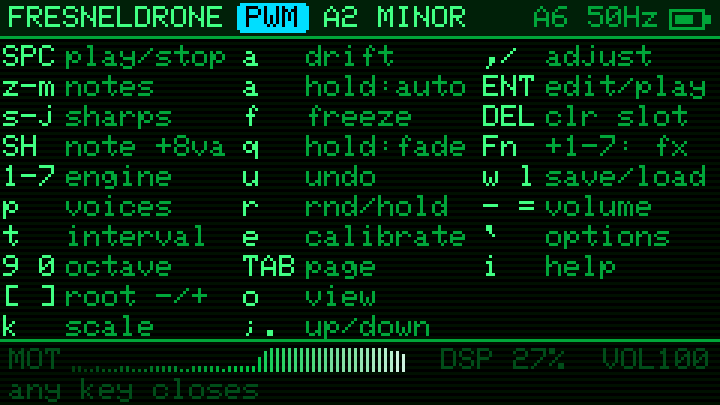
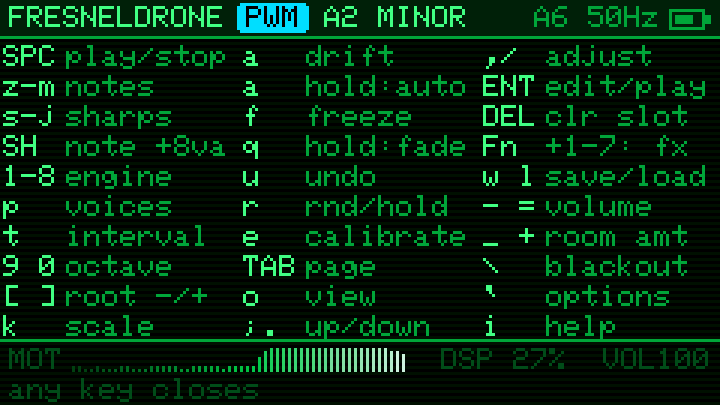
FOLD engine on 7 (NOISE to 8), room amount on _ +, blackout on \
FOLD: sines (root, interval, sub) through a triangle wavefolder with
first-order ADAA. SPREAD is the fold depth (a clean sine at 0), TIMBRE
an offset into the folder that skews the folds into even harmonics; a
DC blocker takes out what the offset leaves. Presets move to format 3:
a v2 preset with engine 6 (NOISE then) still loads as NOISE.

Room amount (_ / +, 0-200% in 10% steps, not saved, like volume) scales
every room-driven matrix slot but not the LFO; the footer shows ROOM %
in place of DSP % while it isn't 100%.

Blackout (\) turns the backlight off and stops drawing; the drone plays
on, and the next key only wakes the screen.

diff --git a/src/dsp.h b/src/dsp.h
@@ -27,8 +27,8 @@ static const ModProfile MOD_PROFILES[] = {{"SHARP", 0.15f, 0.15f}, {"NORMAL", 0.
 constexpr int NPROFILE = sizeof MOD_PROFILES / sizeof *MOD_PROFILES;
 constexpr float PARAM_TAU = 0.15f, FADE_TAU = 1.2f;  // FADE: held q's fade out / swell back
 
-enum Engine { E_PWM, E_SAW, E_FM, E_ORGAN, E_WAVE, E_VOICE, E_NOISE, NENGINE };
-static const char* const ENGINE_NAME[NENGINE] = {"PWM", "SAW", "FM", "ORG", "WAVE", "VOICE", "NOISE"};
+enum Engine { E_PWM, E_SAW, E_FM, E_ORGAN, E_WAVE, E_VOICE, E_FOLD, E_NOISE, NENGINE };
+static const char* const ENGINE_NAME[NENGINE] = {"PWM", "SAW", "FM", "ORG", "WAVE", "VOICE", "FOLD", "NOISE"};
 enum NoiseKind { N_DUST, N_WIND, N_SURF, N_STATIC, N_METAL, NNOISE };  // TIMBRE morphs through these
 enum Lfo { L_SINE, L_TRI, L_SAW, L_SQR, L_SH, L_DRIFT, NLFO };
 static const char* const LFO_NAME[NLFO] = {"SINE", "TRIANGLE", "SAW DOWN", "SQUARE", "S&H", "DRIFT"};
@@ -86,7 +86,7 @@ static inline int quantize(float s, uint16_t mask) {
 
 // ── patch JSON (hand-rolled: the format is ours and flat) ────────────────────
 static int patchToJson(const Patch& p, char* out, int cap) {  // cap >= 512
-  int n = snprintf(out, cap, "{\"v\":2,\"engine\":%d,\"root\":%d,\"octave\":%d,\"scale\":%d,\"fx\":%d,\"lfo\":%d,\"voices\":%d,\"interval\":%d,\n\"params\":[",
+  int n = snprintf(out, cap, "{\"v\":3,\"engine\":%d,\"root\":%d,\"octave\":%d,\"scale\":%d,\"fx\":%d,\"lfo\":%d,\"voices\":%d,\"interval\":%d,\n\"params\":[",
                    p.engine, p.root, p.octave, p.scale, p.fx, p.lfo, p.voices, p.interval);
   for (int i = 0; i < NPARAM; i++) n += snprintf(out + n, cap - n, "%s%.3f", i ? "," : "", p.p[i]);
   n += snprintf(out + n, cap - n, "],\n\"matrix\":[");
@@ -125,10 +125,11 @@ static bool patchFromJson(const char* js, Patch& out) {
   jsonNums(js, "\"lfo\"", &lfo, 1);  // optional: older presets lack these two
   jsonNums(js, "\"voices\"", &voices, 1);
   jsonNums(js, "\"interval\"", &interval, 1);
-  float ver = 1;  // format 2 gave shimmer its own FX bit; before, it came with the reverb
+  float ver = 1;  // format 2 gave shimmer its own FX bit (before, it came with the reverb); 3 put FOLD before NOISE
   jsonNums(js, "\"v\"", &ver, 1);
   Patch p;
   p.engine = clampInt(h[0], 0, NENGINE - 1);
+  if (ver < 3 && p.engine == E_FOLD) p.engine = E_NOISE;
   p.root = clampInt(h[1], 0, 11);
   p.octave = clampInt(h[2], 0, 5);
   p.scale = clampInt(h[3], 0, NSCALE - 1);
@@ -158,6 +159,13 @@ static DSP_AI float sinT(float ph) {  // ph in cycles, any range
   return SINT[i] + (SINT[i + 1] - SINT[i]) * fr;
 }
 static DSP_AI float clampf(float x, float lo, float hi) { return x < lo ? lo : x > hi ? hi : x; }
+// Triangle wavefolder: -1..1 passes, beyond that it reflects back (period 4); foldF is its
+// antiderivative, for first-order antialiasing (ADAA). |u| < 250 (the +64 keeps the cast a floor).
+static DSP_AI float foldT(float u) { float w = (u + 1) * 0.25f + 64, t = (w - (int)w) * 4; return t < 2 ? t - 1 : 3 - t; }
+static DSP_AI float foldF(float u) {
+  float w = (u + 1) * 0.25f + 64, t = (w - (int)w) * 4;
+  return t < 2 ? t * t * 0.5f - t : t * (3 - t * 0.5f) - 4;
+}
 static DSP_AI float sat(float x) {  // cubic soft clip, |out| <= 1
   x = clampf(x, -1.5f, 1.5f);
   return x - x * x * x * (4.f / 27);
@@ -196,6 +204,7 @@ struct Synth {
   uint8_t profile = 2;  // MOD_PROFILES index, SMOOTH
   bool freeze = false;  // hold the room's mods (and ORG's partials) where they are; the LFO keeps going
   bool duck = false;    // fade the output down (slowly); false swells it back
+  float room = 1;       // room amount, 0..2: scales the room's sources in the matrix (not the LFO)
 
   Synth() {
     for (int i = 0; i <= 1024; i++) SINT[i] = sinf(2 * PI_F * i / 1024);
@@ -234,6 +243,7 @@ struct Synth {
   float surfPh = 0, surfRate = 0.1f, sz1 = 0, sz2 = 0, shV = 0, gate = 0.5f, gateT = 0.5f, metPh[3] = {};
   int shCnt = 0, shHold = 1;
   uint16_t lfsr[3] = {1, 1, 1};
+  float foldU[3] = {}, foldDc = 0;  // FOLD: each voice's last folder input, DC blocker
   float drvLp = 0, drvDc = 0;  // analog drive: circuit bandwidth, DC blocker
   Slot route[NSLOT];    // the routings as currently applied: glide toward pt.mod
   float routeD[NSLOT];  // their depths, gliding
@@ -322,7 +332,7 @@ DSP_IRAM void Synth::block(int16_t* out, int n, float* src, const float* prof) {
     bool moved = s.src != r.src || s.dst != r.dst;
     routeD[k] += ((moved ? 0 : s.depth) - routeD[k]) * pg;
     if (moved && fabsf(routeD[k]) < 0.5f) r.src = s.src, r.dst = s.dst;
-    if (r.src < NSRC && r.dst < NPARAM) eff[r.dst] += modS[r.src] * routeD[k] * 0.01f;
+    if (r.src < NSRC && r.dst < NPARAM) eff[r.dst] += modS[r.src] * routeD[k] * (r.src == S_LFO ? 0.01f : 0.01f * room);
   }
   for (float& e : eff) e = clamp01(e);
 
@@ -362,7 +372,7 @@ DSP_IRAM void Synth::block(int16_t* out, int n, float* src, const float* prof) {
   float tb = eff[P_TIMBRE], sp = eff[P_SPREAD];
 
   float inc[16], idt[16], amp[16], pw[6], idx[3], minc[3], fa1[3], fa2[3], fa3[3], fk[3];
-  float norm = 1, wfr = 0, nzF = 0, dustP = 0, surfA = 0, surfG = 0;
+  float norm = 1, wfr = 0, nzF = 0, dustP = 0, surfA = 0, surfG = 0, foldG = 1, foldO = 0;
   int nzA = 0, shMax = 2;
   const int16_t *wA = WT[0], *wB = WT[1];
   // Voices stack root, fifth (fv[1]) and sub (fv[2]); fewer voices get a lift so
@@ -433,6 +443,11 @@ DSP_IRAM void Synth::block(int16_t* out, int n, float* src, const float* prof) {
       }
       break;
     }
+    case E_FOLD:  // sines into a wavefolder: SPREAD folds them (harmonics bloom), TIMBRE skews the folds
+      for (int v = 0; v < 3; v++) inc[v] = fv[v] / SR;
+      foldG = 0.9f + sp * 6;  // below 1: a clean sine
+      foldO = tb * 1.2f;      // offset into the folder: uneven folds, even harmonics
+      break;
     case E_NOISE: {  // five kinds of noise, unpitched but for METAL: TIMBRE morphs between neighbours
       float pos = tb * (NNOISE - 1) * 0.9999f;
       nzA = (int)pos, nzF = pos - nzA;
@@ -560,6 +575,17 @@ DSP_IRAM void Synth::block(int16_t* out, int n, float* src, const float* prof) {
         }
         break;
       }
+      case E_FOLD:
+        for (int v = 0; v < tones; v++) {  // root, interval, sub
+          ph[v] = wrap1(ph[v] + inc[v]);
+          float u = foldG * sinT(ph[v]) + foldO, du = u - foldU[v];
+          // ADAA: the folder averaged over the step, not sampled; its corners alias far less
+          x += (v == 1 ? 0.3f : 0.45f) * (fabsf(du) > 1e-3f ? (foldF(u) - foldF(foldU[v])) / du : foldT(u - du * 0.5f));
+          foldU[v] = u;
+        }
+        foldDc += (x - foldDc) * 0.0015f;  // the offset leaves DC behind: block it (~10 Hz)
+        x = (x - foldDc) * 0.75f * vg;
+        break;
       case E_NOISE: {
         float y[2] = {0, 0};
         for (int s = 0; s < (nzF > 0.001f ? 2 : 1); s++) {

diff --git a/src/main.cpp b/src/main.cpp
@@ -1,6 +1,6 @@
 // FRESNELDRONE: a drone synth for the M5Stack Cardputer ADV, played by the room.
 // WiFi Channel State Information (bodies moving bend the multipath) drives
-// seven drone engines and an FX chain through a mod matrix.
+// eight drone engines and an FX chain through a mod matrix.
 #ifndef FRESNELDRONE_HOST  // test/screens.cpp supplies stand-ins to render the UI on a laptop
 #include <M5Cardputer.h>
 #include <Preferences.h>
@@ -41,7 +41,7 @@ constexpr int NTHEME = sizeof THEMES / sizeof *THEMES;
 static uint8_t theme = 0;  // saved in NVS
 // Header tag per engine, the same in every theme (no amber: that means "warning").
 static const uint16_t ENGINE_COLOR[] = {rgb(0, 220, 255),  rgb(255, 120, 30), rgb(180, 110, 255), rgb(120, 255, 60),
-                                        rgb(255, 70, 170), rgb(255, 225, 40), rgb(60, 140, 255)};
+                                        rgb(255, 70, 170), rgb(255, 225, 40), rgb(255, 90, 80),  rgb(60, 140, 255)};
 static_assert(sizeof ENGINE_COLOR / sizeof *ENGINE_COLOR == NENGINE, "one colour per engine");
 
 static void applyTheme() {
@@ -67,6 +67,9 @@ static const char* const HINTS[NPAGE] = {"TAB page  o view  z-m notes  i help", 
 // unity gain, so a full-scale drone hard-clips in its mixer above that.
 constexpr int VOL_MAX = 180;
 static int page = PG_WATERFALL, overlay = OV_NONE, pCur = 0, mRow = 0, mCol = 0, optCur = 0, vol = 180;
+static int roomPct = 100;  // room amount (_ +): how strongly the room moves the sound, like vol not saved
+static bool blackout = false;  // backslash: backlight off, the drone plays on; any key wakes it
+static uint8_t bright = 0;     // the backlight before it
 static const char* const WF_VIEW[] = {"XY", "RADIAL", "3D"};  // how the waterfall draws its history: o cycles
 constexpr int NWFVIEW = sizeof WF_VIEW / sizeof *WF_VIEW;
 static uint8_t wfView = 0;  // saved in NVS
@@ -600,12 +603,12 @@ static void drawMatrix() {
 
 static void drawHelp() {
   static const char* const K[][2] = {  // three columns of ten: keys <= 3 chars, notes <= 9
-      {"SPC", "play/stop"}, {"z-m", "notes"},     {"s-j", "sharps"},    {"SH", "note +8va"}, {"1-7", "engine"},
+      {"SPC", "play/stop"}, {"z-m", "notes"},     {"s-j", "sharps"},    {"SH", "note +8va"}, {"1-8", "engine"},
       {"p", "voices"},      {"t", "interval"},    {"9 0", "octave"},    {"[ ]", "root -/+"}, {"k", "scale"},
       {"a", "drift"},       {"a", "hold:auto"},   {"f", "freeze"},      {"q", "hold:fade"},  {"u", "undo"},
       {"r", "rnd/hold"},    {"e", "calibrate"},   {"TAB", "page"},      {"o", "view"},        {";.", "up/down"},   {",/", "adjust"},
       {"ENT", "edit/play"}, {"DEL", "clr slot"},  {"Fn", "+1-7: fx"},   {"w l", "save/load"}, {"- =", "volume"},
-      {"`", "options"},     {"i", "help"}};
+      {"_ +", "room amt"},  {"\\", "blackout"},  {"`", "options"},     {"i", "help"}};
   for (int i = 0; i < (int)(sizeof K / sizeof *K); i++) {
     int x = 1 + (i / 10) * 80, y = 15 + (i % 10) * 10;
     cv.setTextColor(C_HI);
@@ -680,10 +683,12 @@ static void drawFooter() {
     int h = 1 + (int)(motHist[(histHead + i) % HIST] * 8);
     cv.drawFastVLine(24 + i * 2, 124 - h, h, ramp[6 + i * 25 / HIST]);
   }
-  char s[24];
+  char s[24], lead[12];
+  if (roomPct != 100) snprintf(lead, sizeof lead, "ROOM%3d%%", roomPct);  // in place of the DSP load
+  else snprintf(lead, sizeof lead, "DSP%3d%%", (int)(dspLoad * 100));
   if (!playing) snprintf(s, sizeof s, "STOPPED");
-  else if (audioOn) snprintf(s, sizeof s, "DSP%3d%%  VOL%3d", (int)(dspLoad * 100), vol * 100 / VOL_MAX);
-  else snprintf(s, sizeof s, "DSP%3d%%  MUTED", (int)(dspLoad * 100));
+  else if (audioOn) snprintf(s, sizeof s, "%s  VOL%3d", lead, vol * 100 / VOL_MAX);
+  else snprintf(s, sizeof s, "%s  MUTED", lead);
   cv.setTextColor(playing ? C_DIM : C_WARN);
   cv.drawRightString(s, W - 3, 116);
   char hold[40] = "";  // r or a held: count down to the hold action
@@ -1192,7 +1197,7 @@ static void onKey(char c) {
       say(WF_VIEW[wfView]);
       break;
     case '`': overlay = OV_OPTIONS; break;
-    case '1': case '2': case '3': case '4': case '5': case '6': case '7':
+    case '1': case '2': case '3': case '4': case '5': case '6': case '7': case '8':
       remember();
       P.engine = c - '1';
       break;
@@ -1261,6 +1266,19 @@ static void onKey(char c) {
       vol = constrain(vol + (c == '=' ? 12 : -12), 0, VOL_MAX);
       applyVolume();
       break;
+    case '_': case '+': {
+      roomPct = constrain(roomPct + (c == '+' ? 10 : -10), 0, 200);
+      syn.room = roomPct / 100.f;
+      char s[16];
+      snprintf(s, sizeof s, "ROOM %d%%", roomPct);
+      say(s);
+      break;
+    }
+    case '\\':
+      bright = M5Cardputer.Display.getBrightness();
+      M5Cardputer.Display.setBrightness(0);
+      blackout = true;
+      break;
     case ';': adjust(-1, 0); break;
     case '.': adjust(1, 0); break;
     case ',': adjust(0, -1); break;
@@ -1276,6 +1294,10 @@ static void serviceKeys() {
   uint32_t now = millis();
   if (kb.isChange()) {
     held = kb.isPressed() ? readKey() : 0;
+    if (blackout && held) {  // this key only wakes the screen
+      blackout = false, held = 0;
+      M5Cardputer.Display.setBrightness(bright);
+    }
     if (holdAt && !held) holdKey == 'r' ? randomize() : toggleDrift();  // let go before the hold fired
     syn.duck = held == 'q' || autoSwapAt;  // q: fade out while held, swell back on release
     repeatAt = now + 350;
@@ -1284,7 +1306,7 @@ static void serviceKeys() {
   } else if (holdAt && now - holdAt >= HOLD_MS) {
     holdAt = 0;
     holdKey == 'r' ? randomizeMods() : setAuto(true);
-  } else if (held && strchr(";.,/-=", held) && now >= repeatAt) {  // auto-repeat nav + volume
+  } else if (held && strchr(";.,/-=_+", held) && now >= repeatAt) {  // auto-repeat nav, volume, room
     repeatAt = now + 45;
     onKey(held);
   }
@@ -1387,7 +1409,7 @@ void loop() {
   bool cal = csi.calLeft > 0;
   if (wasCal && !cal && csi.calibrated) say("BASELINE SET");
   wasCal = cal;
-  if (now - tDraw >= 33) {
+  if (now - tDraw >= 33 && !blackout) {
     tDraw = now;
     draw();
   }

diff --git a/test/host_test.cpp b/test/host_test.cpp
@@ -67,6 +67,12 @@ int main(int argc, char** argv) {
   assert(patchFromJson("{\"engine\":1,\"root\":0,\"octave\":2,\"scale\":0,\"fx\":0,\"params\":[0,0,0,0,0,0,0,0,0,0,0,0,0,0,0,0],"
                        "\"matrix\":[[0,0,0],[0,0,0],[0,0,0],[0,0,0],[0,0,0],[0,0,0],[0,0,0],[0,0,0]]}", q) && q.voices == 3);  // pre-voices preset
   assert(!patchFromJson("{\"engine\":1}", q));
+  assert(patchFromJson("{\"v\":2,\"engine\":6,\"root\":0,\"octave\":2,\"scale\":0,\"fx\":0,\"params\":[0,0,0,0,0,0,0,0,0,0,0,0,0,0,0,0],"
+                       "\"matrix\":[[0,0,0],[0,0,0],[0,0,0],[0,0,0],[0,0,0],[0,0,0],[0,0,0],[0,0,0]]}", q) &&
+         q.engine == E_NOISE);  // NOISE was 6 before FOLD took that place
+  p.engine = E_FOLD;
+  patchToJson(p, js, sizeof js);
+  assert(patchFromJson(js, q) && q.engine == E_FOLD);
   const char* evil =
       "{\"engine\":99,\"root\":-5,\"octave\":7,\"scale\":-nan,\"fx\":999,\"params\":[9,9,9,9,9,9,9,9,9,9,9,9,9,9,9,-x9],"
       "\"matrix\":[[99,99,500],[0,0,-500],[1,1,1],[1,1,1],[1,1,1],[1,1,1],[1,1,1],[1,1,1]]}";
@@ -224,6 +230,35 @@ int main(int argc, char** argv) {
     double h2 = 20 * log10(mag(220) / mag(110));
     printf("drive 0.8: 2nd harmonic %.1f dB\n", h2);
     assert(h2 > -30);
+  }
+
+  // FOLD: a sine at SPREAD 0; SPREAD folds in odd harmonics, TIMBRE skews the folds into even ones.
+  {
+    for (float u = -9; u < 9; u += 0.37f)  // ADAA needs foldF to be foldT's antiderivative
+      assert(fabsf((foldF(u + 0.01f) - foldF(u - 0.01f)) / 0.02f - foldT(u)) < 0.02f);
+    float src0[NSRC] = {}, flat[NSC];
+    for (float& f : flat) f = 0.5f;
+    auto tone = [&](float spread, float timbre, double& odd, double& even) {  // harmonics 2-16 vs the fundamental, dB
+      syn.pt = DEFAULT_PATCH;
+      syn.pt.engine = E_FOLD, syn.pt.voices = 1, syn.pt.fx = 0;
+      syn.pt.p[P_SPREAD] = spread, syn.pt.p[P_TIMBRE] = timbre, syn.pt.p[P_CUTOFF] = 1, syn.pt.p[P_NOISE] = 0;
+      for (auto& s : syn.pt.mod) s.depth = 0;
+      for (int i = 0; i + 512 <= SR * 4; i += 512) syn.render(pcm + i, 512, src0, flat);
+      auto mag = [&](double hz) {
+        double re = 0, im = 0;
+        for (int i = 0; i < SR; i++) re += pcm[SR * 3 + i] * cos(2 * M_PI * hz * i / SR), im += pcm[SR * 3 + i] * sin(2 * M_PI * hz * i / SR);
+        return re * re + im * im;
+      };
+      double e[2] = {1e-12, 1e-12}, f = mag(syn.freq);
+      for (int h = 2; h <= 16; h++) e[h % 2] += mag(syn.freq * h);
+      even = 10 * log10(e[0] / f), odd = 10 * log10(e[1] / f);
+    };
+    double o0, e0, o1, e1, o2, e2;
+    tone(0, 0, o0, e0), tone(1, 0, o1, e1), tone(1, 1, o2, e2);
+    printf("fold: clean odd %.0f even %.0f dB  folded odd %.0f even %.0f  skewed odd %.0f even %.0f\n", o0, e0, o1, e1, o2, e2);
+    assert(o0 < -40 && e0 < -40);  // a sine
+    assert(o1 > -10 && e1 < -30);  // folded: odd harmonics (even ones measure ~-38 dB)
+    assert(e2 > -20);              // skewed: even ones too
   }
 
   // REVERB and SHIMMER maxed on a held drone: the shimmer loop must bloom, not run away and pin.

diff --git a/test/screens.cpp b/test/screens.cpp
@@ -137,7 +137,7 @@ struct M5Canvas {
 struct M5Cfg { int serial_baudrate; };
 struct KeysState { bool tab, enter, del, fn; std::vector<char> word; };
 static struct {
-  struct { void setRotation(int) {} } Display;
+  struct { void setRotation(int) {} uint8_t getBrightness() { return 128; } void setBrightness(uint8_t) {} } Display;
   struct Spk {
     struct Cfg { int sample_rate, dma_buf_count, dma_buf_len, task_pinned_core; };
     Cfg config() { return {}; }

diff --git a/manual.md b/manual.md
@@ -28,6 +28,7 @@ Plug in headphones and the speaker switches off by itself.
 
 - a small `MOT` graph of recent motion
 - `DSP %`: how hard the synth is working (keep it under ~80%)
+- `ROOM %` in its place while the room amount (`_` `+`) isn't 100%
 - the volume, or `MUTED`, or `STOPPED`
 - hints for the current page, and short messages such as `RANDOMIZED` or `BASELINE SET`
 
@@ -115,7 +116,7 @@ Press `e` (or Options → CALIBRATE). A big **LEAVE THE ROOM** countdown gives y
 
 ## Sound engines
 
-Press `1`–`7`. The sound fades over when you switch.
+Press `1`–`8`. The sound fades over when you switch.
 
 | Key | Engine | Sound | TIMBRE | SPREAD |
 |---|---|---|---|---|
@@ -125,7 +126,8 @@ Press `1`–`7`. The sound fades over when you switch.
 | `4` | **ORG** | An organ of 16 partials whose loudness follows the live shape of the WiFi signal. The room literally shapes the tone. | how strongly the signal shapes the partials | stretches the partials apart (more bell-like) |
 | `5` | **WAVE** | Wavetable. | scans 8 waves: sine → warm → triangle → saw → square → "ah" → nasal → glass | detune |
 | `6` | **VOICE** | A choir: four voices through vocal formants. | the vowel: a → e → i → o → u | choir detune |
-| `7` | **NOISE** | Five kinds of noise, not just colors: **dust** (vinyl crackle, embers), **wind** (broad gusts wandering on their own), **surf** (waves building and breaking every 6–12 s), **static** (choppy shortwave), **metal** (8-bit console noise ringing at the drone's pitch). Only metal is pitched. | which kind; in between, two neighbors blend | dust: density · wind: how broad the gusts are · surf: how bright the foam is · static: how crunchy |
+| `7` | **FOLD** | Sines through a wavefolder (root, fifth, sub), West Coast style: past a threshold the wave folds back on itself and harmonics bloom. Because the room drives SPREAD, movement opens and closes the tone itself, not just the filter. | skews the folds: hollow and clarinet-like at 0, reedy then brassy as even harmonics come in | how far it folds: a clean sine at 0, brighter fold by fold |
+| `8` | **NOISE** | Five kinds of noise, not just colors: **dust** (vinyl crackle, embers), **wind** (broad gusts wandering on their own), **surf** (waves building and breaking every 6–12 s), **static** (choppy shortwave), **metal** (8-bit console noise ringing at the drone's pitch). Only metal is pitched. | which kind; in between, two neighbors blend | dust: density · wind: how broad the gusts are · surf: how bright the foam is · static: how crunchy |
 
 ### Voices
 
@@ -145,6 +147,8 @@ Every engine follows this. ORG shares its 16 partials among the voices, so at 1 
 - **Drift** (tap `a`): the drone wanders by itself. Every 20–60 seconds the root glides to another note of the scale within a fifth of where you started; movement in the room makes it wander sooner. A `~` after the scale in the header shows it's on. Playing a note re-centers it.
 - **Autopilot** (hold `a` for 3 seconds; the footer counts down): FRESNELDRONE plays itself, for as long as you let it. The header's title turns into an `AUTO` tag. It drifts the root (as above), eases the params toward new settings every minute or two (slowly, over about half a minute; pitch, noise and level stay yours), re-rolls one modulation slot every half minute or so, and every 3–6 minutes starts a new section: the sound fades out, the scale changes (and often the engine, the voices, the interval, the LFO shape or the key), and it swells back in. The room keeps steering throughout. Press `a` again to take over; `u` goes back to the patch from before the autopilot.
 - **Slow fade** (hold `q`): the drone fades out over a few seconds; let go and it swells back.
+- **Room amount** (`_` `+`): how strongly the room moves the sound, 0–200% in steps of 10. At 0% the drone ignores the room (the LFO keeps going); above 100% every room-driven slot reaches further. Turn it down when people are walking around, up when the room is still. The footer shows `ROOM %` instead of `DSP %` while it isn't 100%; it goes back to 100% at power-up.
+- **Blackout** (`\`): the screen goes dark and the drone plays on, for dark rooms and long autopilot runs on battery. Any key brings the screen back (that key does nothing else).
 - **Undo** (`u`): steps back through the last 8 big changes: randomize (and the held mod roll), preset loads, notes, root and octave, scale, engine, voices, interval and effect switches. Small param nudges aren't recorded.
 
 ## Params
@@ -196,7 +200,7 @@ A note sets the drone's root in the current octave (`9` `0` change the octave). 
 | **Enter** | on Params and Matrix it edits; elsewhere play / stop |
 | **Tab** | next page |
 | `o` | waterfall view: XY → RADIAL → 3D (from another page, back to the waterfall) |
-| `1`–`7` | engine |
+| `1`–`8` | engine |
 | `p` | voices: 1, 2 or 3 (see below) |
 | `[` `]` | root note down / up a semitone |
 | `9` `0` | octave down / up |
@@ -206,6 +210,8 @@ A note sets the drone's root in the current octave (`9` `0` change the octave). 
 | `w` then `1`–`8` | save (write) a preset to the SD card |
 | `l` then `1`–`8` | load a preset from the SD card |
 | `-` `=` | volume |
+| `_` `+` | room amount: how strongly the room moves the sound (0–200%) |
+| `\` | blackout: screen off, the drone plays on; any key wakes it |
 | `` ` `` | options |
 | `i` | help |
 | `;` `.` | up / down |

diff --git a/README.md b/README.md
@@ -1,6 +1,6 @@
 # FRESNELDRONE
 
-A drone synth for the M5Stack Cardputer ADV that the room plays. It reads WiFi Channel State Information (CSI): when people move, the multipath changes, and the 52-subcarrier fingerprint drives seven drone engines and an FX chain through an 8-slot mod matrix.
+A drone synth for the M5Stack Cardputer ADV that the room plays. It reads WiFi Channel State Information (CSI): when people move, the multipath changes, and the 52-subcarrier fingerprint drives eight drone engines and an FX chain through an 8-slot mod matrix.
 
 Without WiFi, or to cover a whole flat through walls, **LoRa mode** reads a LoRa link instead: a Heltec board sends beacons, the Cap LoRa-1262 on the Cardputer measures how people moving change them (see [LoRa mode](#lora-mode)).
 
@@ -83,7 +83,7 @@ Nothing sounds until `Space` (play). On the ADV, plugging headphones into the ja
 | `Fn` + `1`–`7` | effect on/off from any page: drive, crush, ring, chorus, delay, reverb, shimmer |
 | `Tab` | page: Waterfall → Bars → Params → Matrix |
 | `o` | waterfall view: XY → RADIAL → 3D (remembered) |
-| `1`–`7` | engine: PWM, SAW (supersaw), FM (bell), ORG (subcarrier additive organ), WAVE (wavetable), VOICE (formant choir), NOISE (dust, wind, surf, static, metal) |
+| `1`–`8` | engine: PWM, SAW (supersaw), FM (bell), ORG (subcarrier additive organ), WAVE (wavetable), VOICE (formant choir), FOLD (wavefolder: SPREAD folds, TIMBRE skews), NOISE (dust, wind, surf, static, metal) |
 | `p` | voices: 1 (root), 2 (+ interval, a fifth by default), 3 (+ sub) |
 | `r` | tap: randomize params in drone-friendly ranges (pitch, noise and level stay put, shimmer only now and then). Hold 3 s (the footer counts down): randomize only the mod matrix (sources, destinations, depths) and the LFO shape, then the Matrix page opens |
 | `[` `]` | root note down / up a semitone |
@@ -92,6 +92,8 @@ Nothing sounds until `Space` (play). On the ADV, plugging headphones into the ja
 | `e` | calibrate an empty-room baseline: 5 s countdown to leave the room, then ~3 s capture (any key cancels); LO/MID/HI then measure deviation from it |
 | `w` / `l` then `1`–`8` | save (write) / load preset to `/fresneldrone/presetN.json` on SD |
 | `-` `=` | volume |
+| `_` `+` | room amount, 0–200%: scales every room-driven slot (not the LFO); the footer shows `ROOM %` while it isn't 100% |
+| `\` | blackout: backlight off, the drone plays on; any key wakes it |
 | `` ` `` | options: audio out, volume, mod profile (sharp, normal, smooth, slow), LFO shape (sine, triangle, saw, square, S&H, drift) and rate, theme (green, yellow, red, blue, B&W), network, calibrate |
 | `i` | key help overlay |
 | `;` `.` | up / down (Params, Matrix) |
